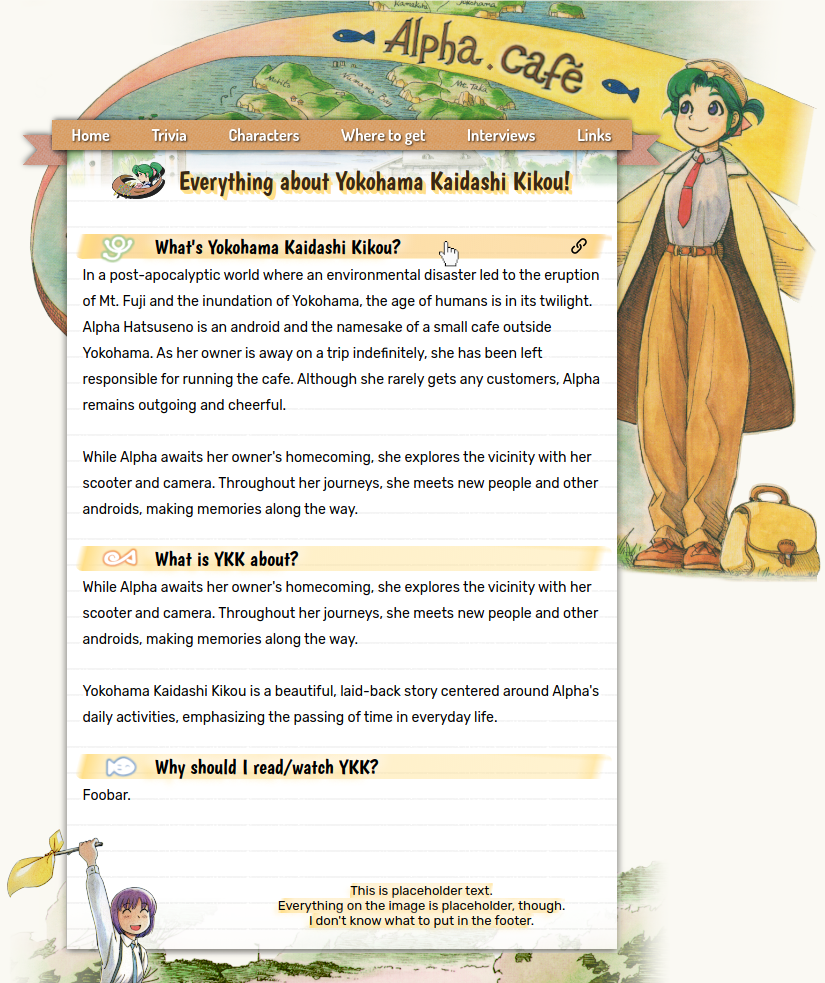
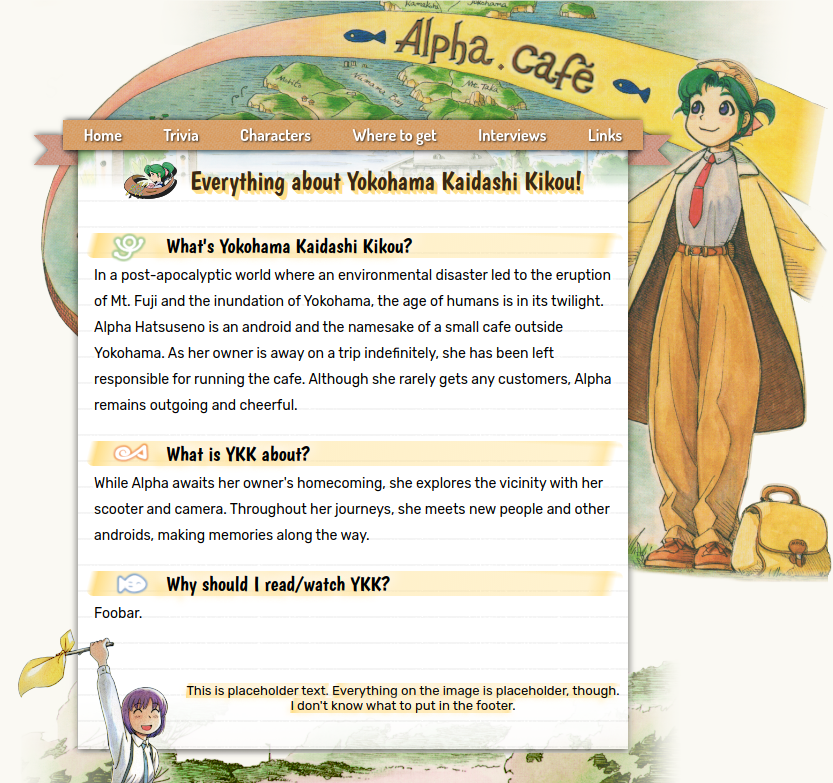
updated screenshot, minor scss update

diff --git a/main.scss b/main.scss
@@ -9,7 +9,6 @@
 // headings font
 @import url('https://fonts.googleapis.com/css2?family=Boogaloo&display=swap');
 
-
 // Sass variables used where needed for use inside
 // media query declarations
 $main_offset: -80px;
@@ -29,6 +28,8 @@ $site_width: 550px;
 	--site_width: #{$site_width};
 	--title_shadow: #FFDF89;
 
+	// realign site to center when screen gets too small to show
+	// main + right graphics
 	@media (max-width: #{$site_width + 2 * math.abs($main_offset) + $ribbon_extra_width}) {
 		--main_offset: 0px;
 	}
@@ -45,10 +46,14 @@ body { // header image is set as body bg
 	font-family: var(--main_font);
 	height: auto;
 	min-height:100%;
-	overflow-x: hidden;
+	// TODO: remove this, move footer graphics to footer element
+	//       check if it works on mobile
+	// overflow-x: hidden;
 	// create header area which is currently empty space
 	padding-top: var(--header_height);
 
+	// on small screen, re-center header image
+	// to center Alpha.Cafe logo
 	@media (max-width: #{$site_width}) {
 		background-position: 70% top;
 	}
@@ -104,6 +109,7 @@ nav {
 		// this lets its shadow be under the nav
 		transform: translateZ(-1px); // needed over bare z-index here
 
+		// hide ribbon tips when viewport too small
 		@media (max-width: #{$site_width + $ribbon_extra_width + 12px}) {
 			display: none;
 		}
@@ -152,7 +158,7 @@ h1 {
 	font-family: var(--main_title_font);
 	font-size: 26px;
 	line-height: 26px;
-	margin-bottom: 40px; // alignment for notebook lines
+	margin-bottom: 42px; // alignment for notebook lines
 	padding: 6px 10px 0 10px;
 	position: relative;
 	text-align: center;
@@ -214,7 +220,7 @@ h2 {
 	display: block;
 	font-family: var(--main_title_font);
 	font-size: 21px; // notebook alignment
-	margin-bottom: 4px; // notebook alignment
+	margin-bottom: 4.5px; // notebook alignment
 	margin-left: 8px;
 	margin-right: 5px;
 	margin-top: -3px; // notebook alignment
@@ -275,6 +281,7 @@ h2 {
 		width: calc(100% - 15px);
 		z-index: -1; // ensure the pseudoelement doesn't hide text
 	}
+
 	a.heading:hover &::before {
 		opacity: 1; // when heading is hovered, new gradient fades in
 	}
